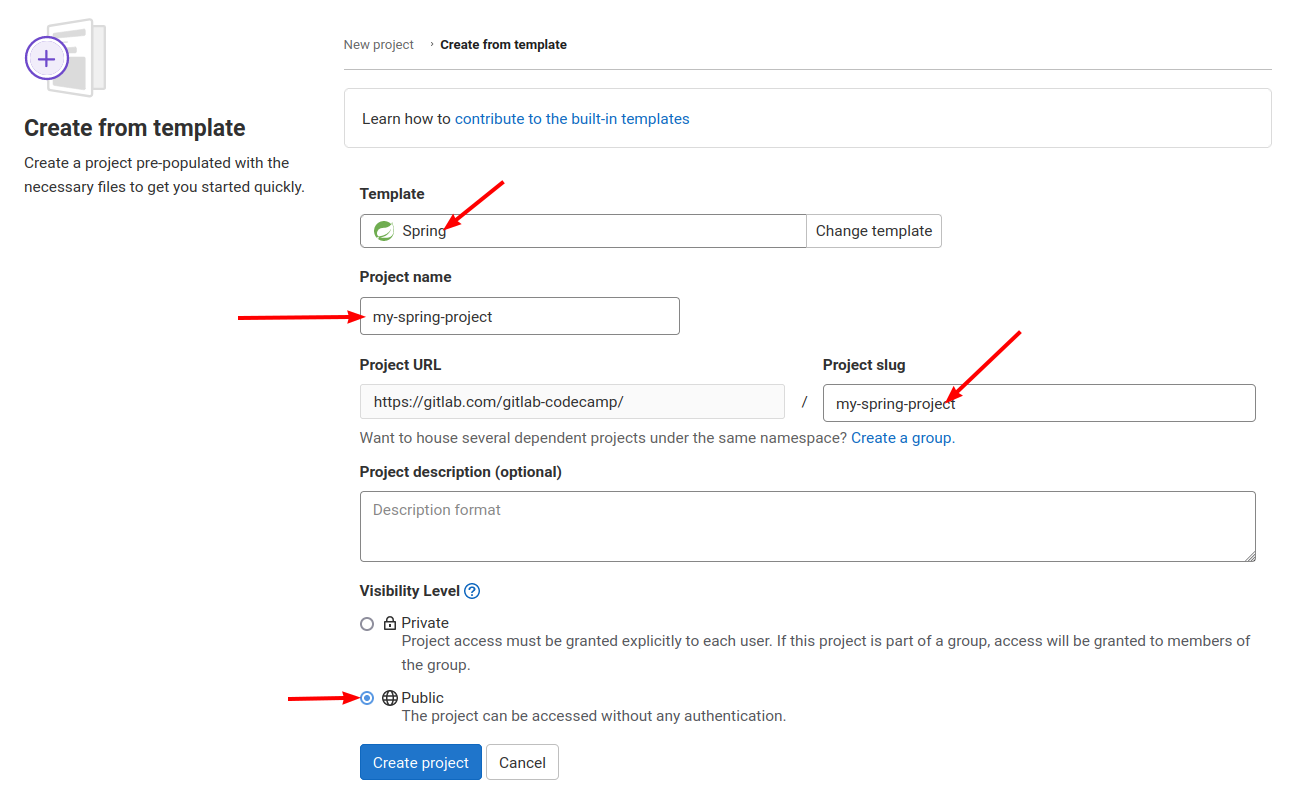
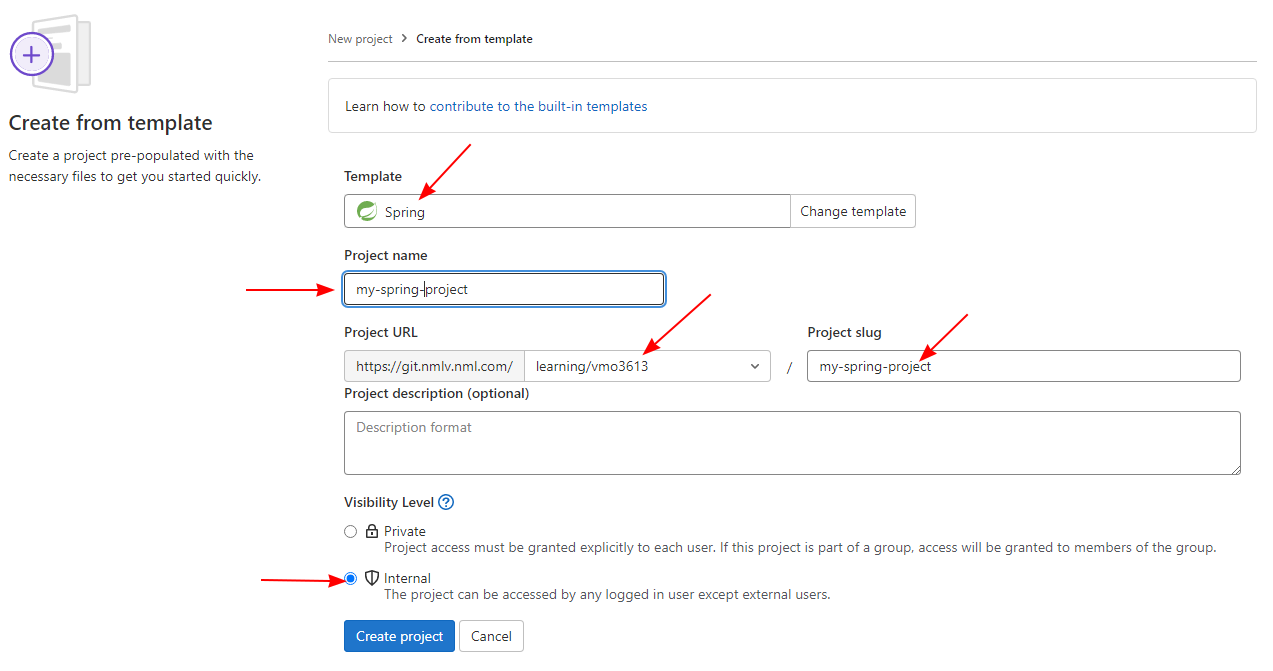
project from template

diff --git a/labs/templated-project/README.md b/labs/templated-project/README.md
@@ -21,7 +21,7 @@ Create a project pre-populated with the necessary files to get you started quick
 ### Create from template
 > 1. Enter project name as "my-spring-project"
 > 2. Adjust the project slug (if required) and add description (optional). 
-> 3. Select project visibility as "public".
+> 3. Select project visibility as "internal".
 > 4. Click on "Create Project" button.
 
 ![](/imgs/new-project-template-3.png)
